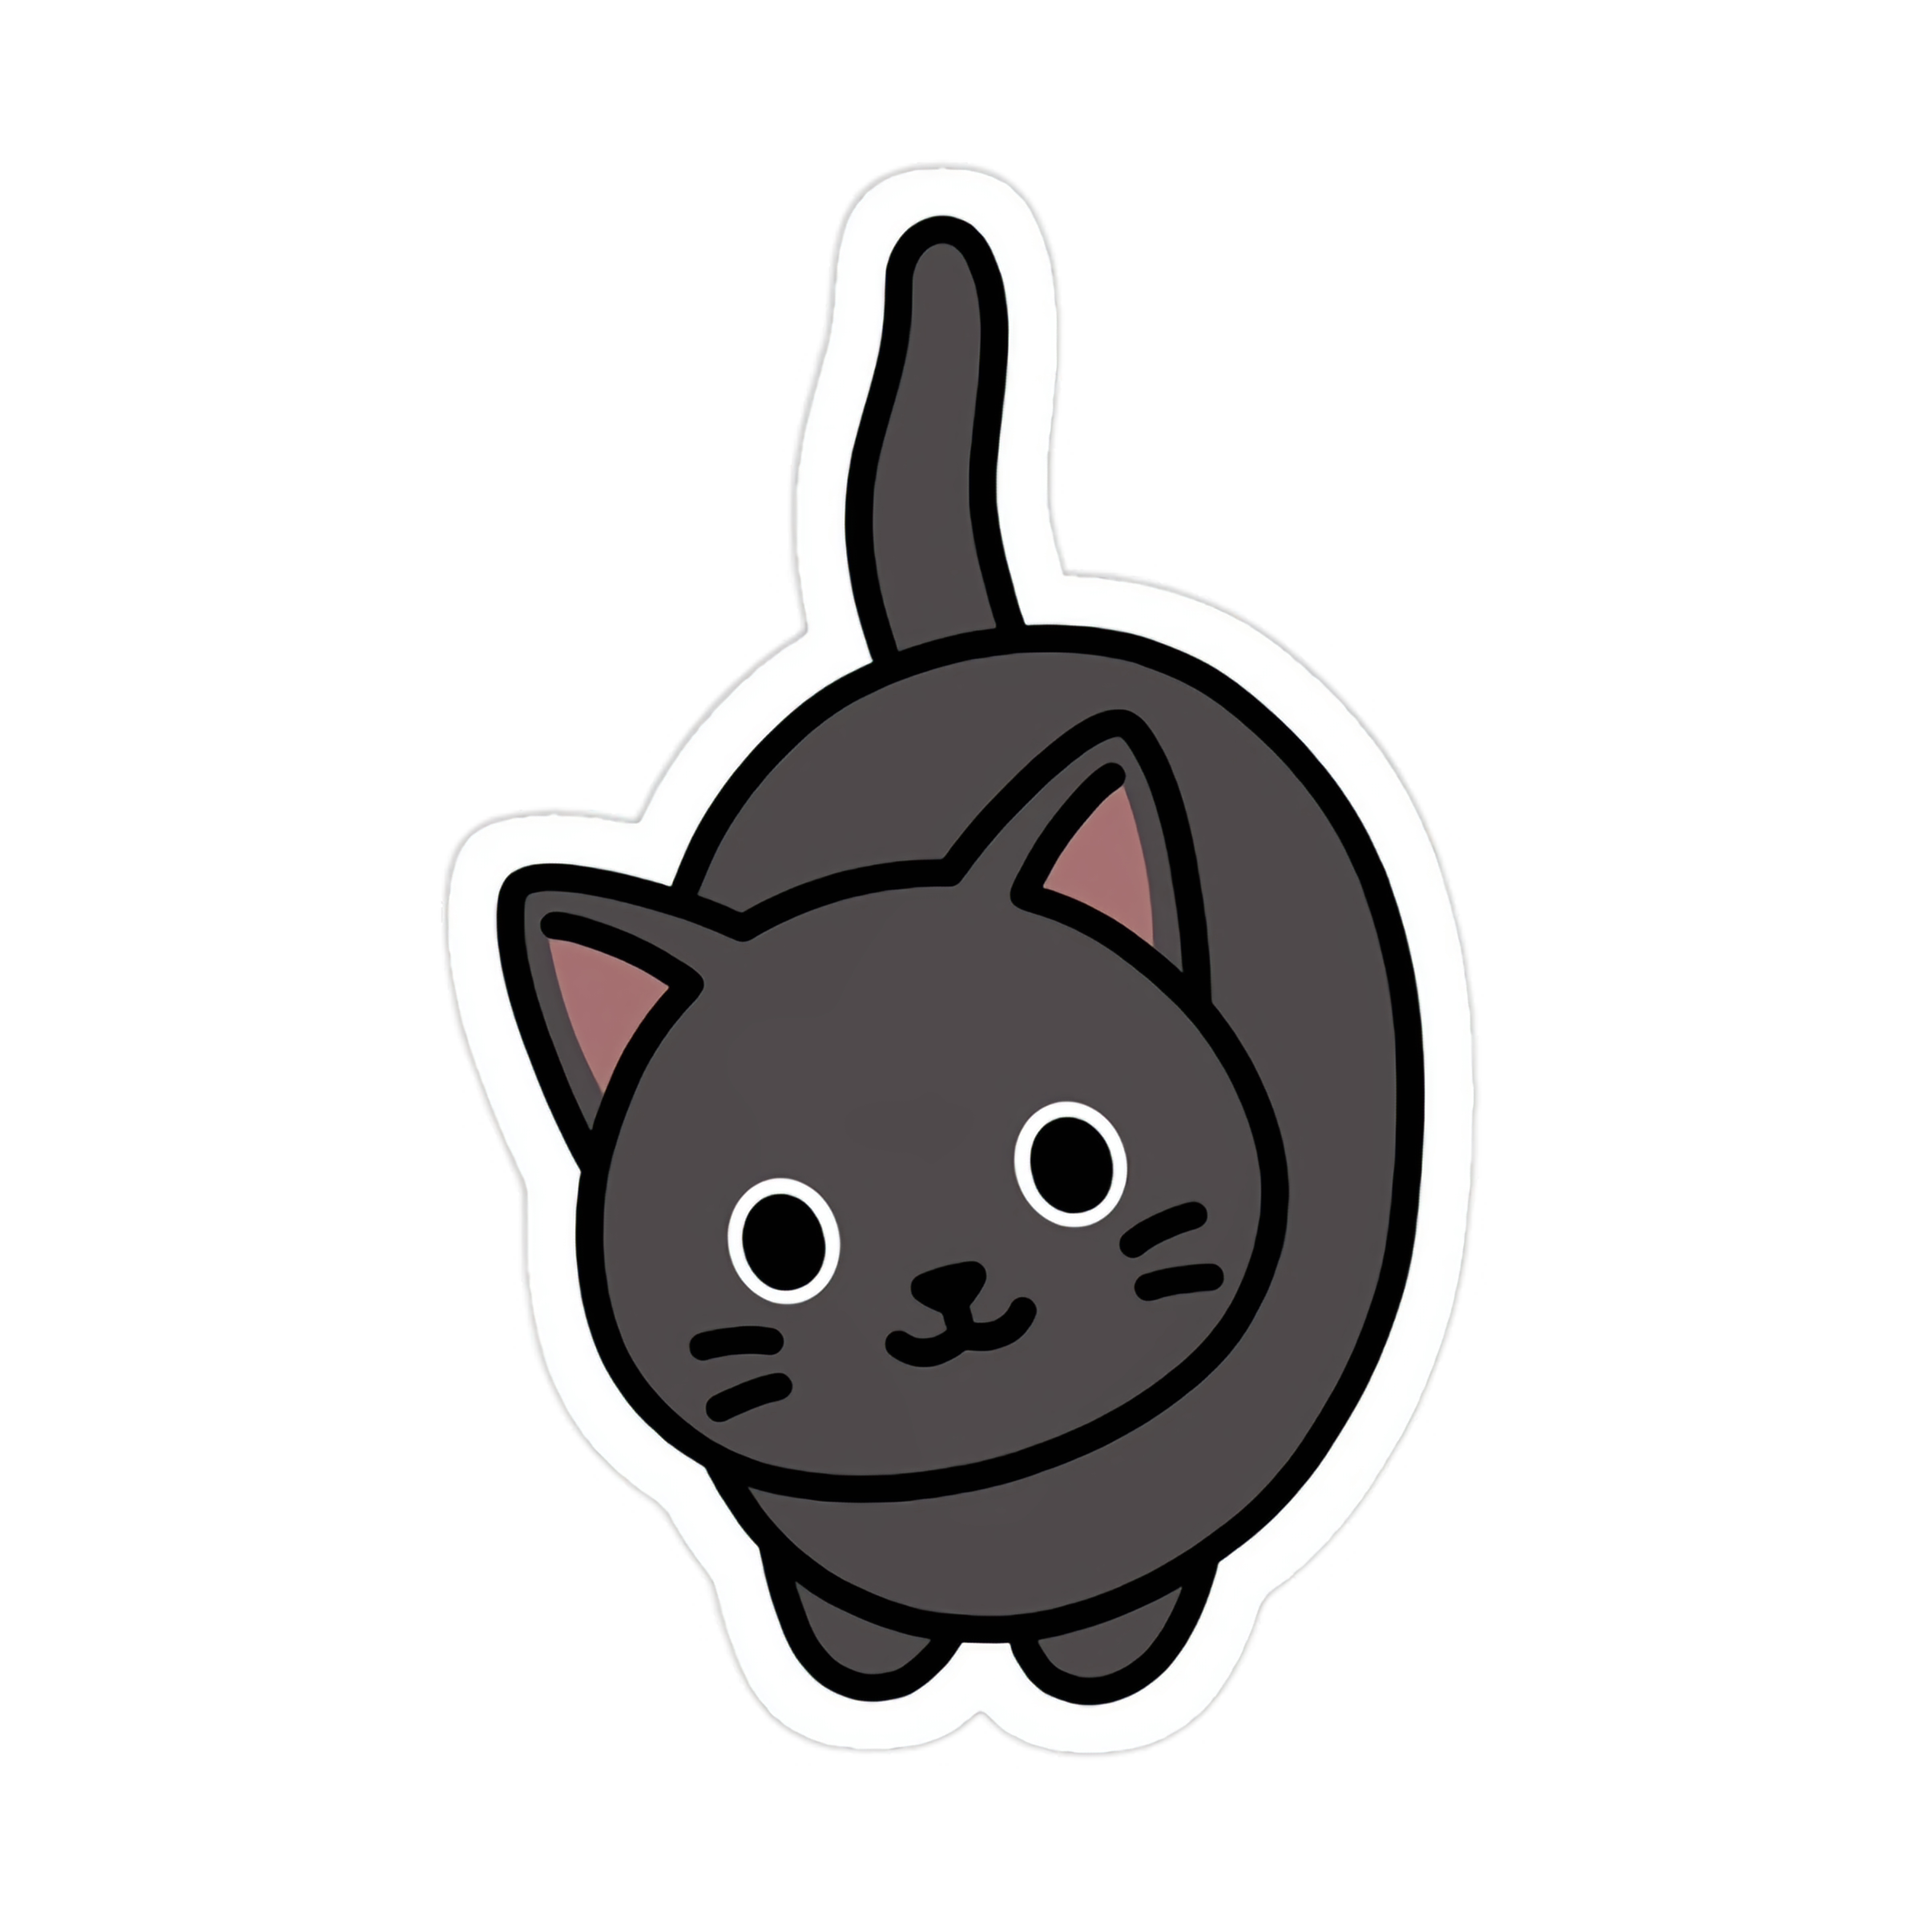
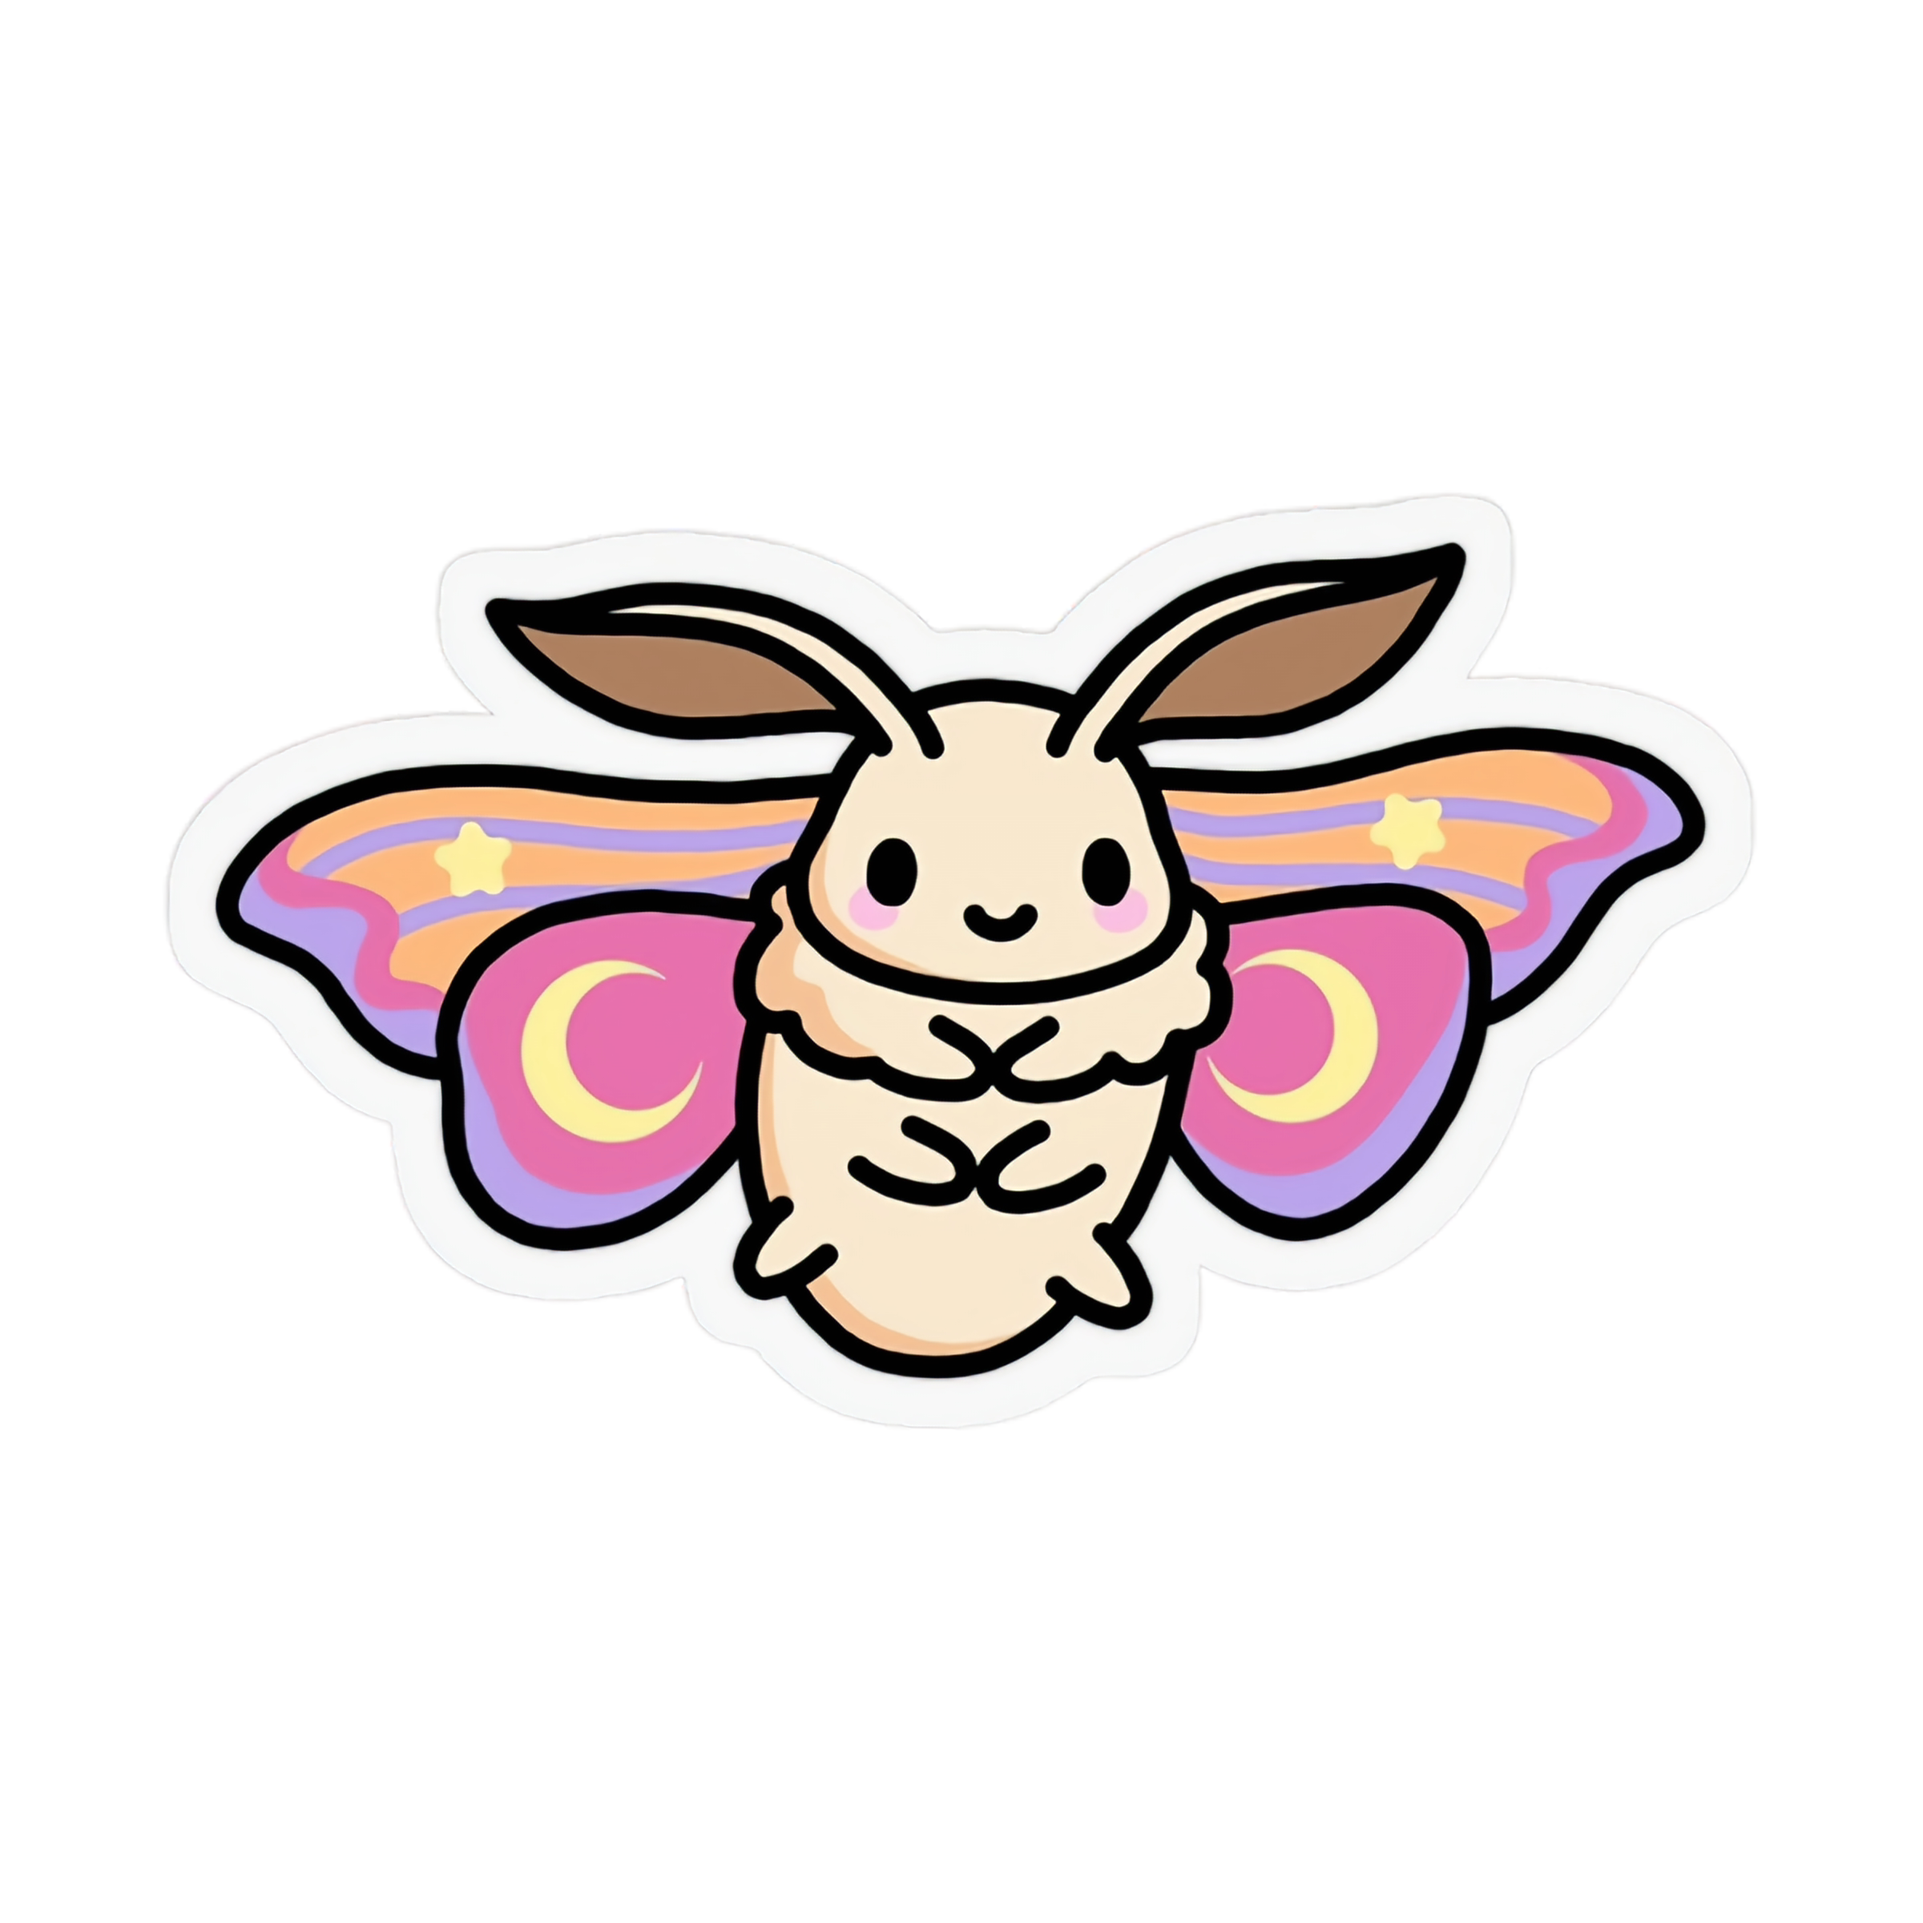
Images done

Changed region(s): [[0.0938, 0.0938, 0.9062, 0.9062]]

diff --git a/Styles/StyleSheet.css b/Styles/StyleSheet.css
@@ -5906,6 +5906,7 @@ table {
         border-radius: 2em;
         background-color: #64A6BD; /*turquoise*/
     }
+    
 
     .inSessionHeading {
         padding: 0.5em 0;

diff --git a/C100-C500_Profile.aspx.cs b/C100-C500_Profile.aspx.cs
@@ -47,7 +47,10 @@ public partial class Default2 : System.Web.UI.Page
                 {
                     txtUsername.Text = reader["username"].ToString();
                     txtEmail.Text = reader["email"].ToString();
-                    txtPassword.Attributes["value"] = "********";
+                    // Store the actual password for the eye icon functionality
+                    string actualPassword = reader["password"].ToString();
+                    txtPassword.Attributes["data-actual-password"] = actualPassword;
+                    txtPassword.Attributes["value"] = "********"; // Show masked by default
 
                     originalUsername = reader["username"].ToString();
                     originalPass = reader["password"].ToString();
